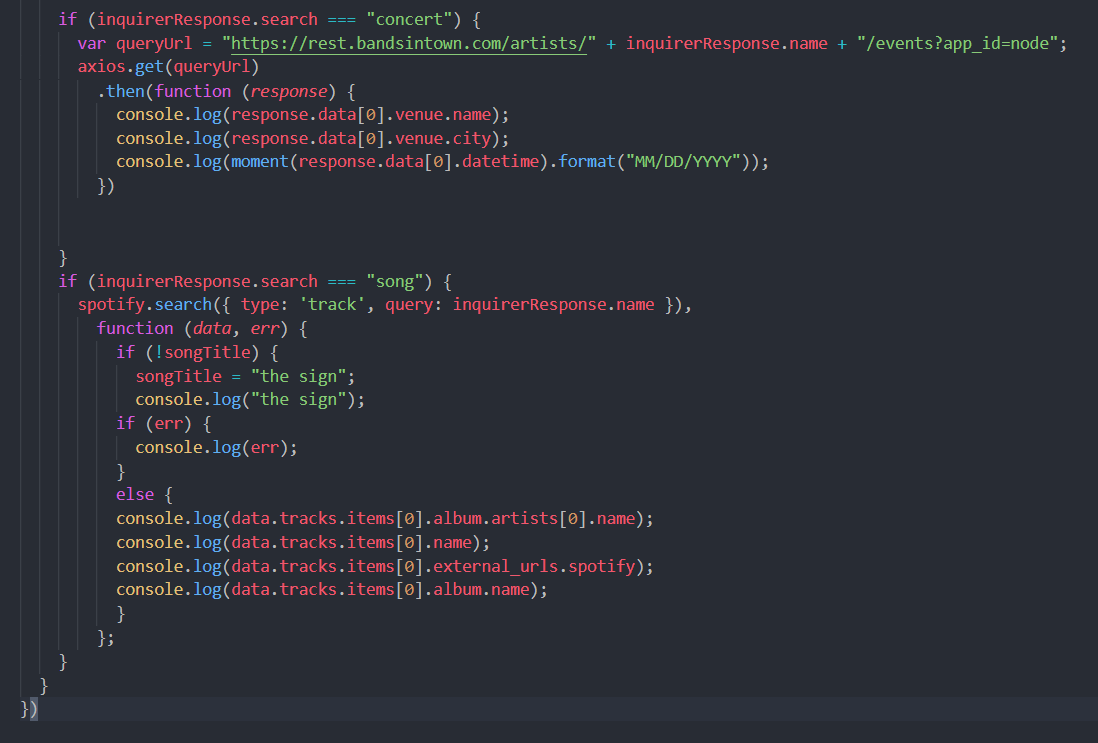
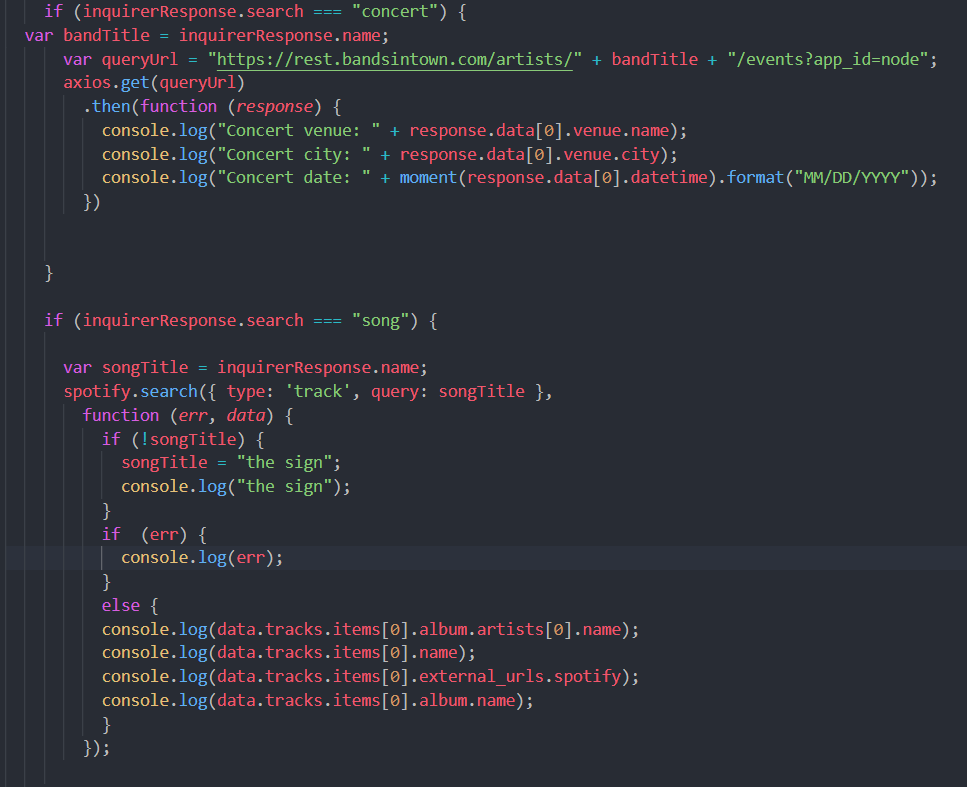
images

diff --git a/liri.js b/liri.js
@@ -27,7 +27,8 @@ inquirer
   ])
   .then(function (inquirerResponse) {
     if (inquirerResponse.search === "movie") {
-      var queryUrl = "http://www.omdbapi.com/?t=" + inquirerResponse.name + "&apikey=b3eb9e86";
+      var movieTitle = inquirerResponse.name;
+      var queryUrl = "http://www.omdbapi.com/?t=" + movieTitle + "&apikey=b3eb9e86";
       axios.get(queryUrl)
         .then(function (response) {
           console.log("\n\nThe movie's Title is: " + response.data.Title);
@@ -43,8 +44,8 @@ inquirer
 
     //.slice(3).join(" ")
     if (inquirerResponse.search === "concert") {
-      // var band = inquirerResponse.name.split(' ').join('');
-      var queryUrl = "https://rest.bandsintown.com/artists/" + inquirerResponse.name + "/events?app_id=node";
+  var bandTitle = inquirerResponse.name;
+      var queryUrl = "https://rest.bandsintown.com/artists/" + bandTitle + "/events?app_id=node";
       axios.get(queryUrl)
         .then(function (response) {
           console.log("Concert venue: " + response.data[0].venue.name);
@@ -54,29 +55,28 @@ inquirer
 
 
     }
+
     if (inquirerResponse.search === "song") {
+      
       var songTitle = inquirerResponse.name;
-      spotify.search({ type: 'track', query: songTitle }),
-        function songy(err, response, data) {
+      spotify.search({ type: 'track', query: songTitle },
+        function (err, data) {
           if (!songTitle) {
             songTitle = "the sign";
             console.log("the sign");
-
-          if (err) {
+          }
+          if  (err) {
             console.log(err);
           }
-         
           else {
-            console.log(response.data);
-          console.log(data.tracks.items[i].album.artists[i].name);
-          console.log(data.tracks.items[i].name);
-          console.log(data.tracks.items[i].external_urls.spotify);
-          console.log(data.tracks.items[i].album.name);
-
+          console.log("Artist: " + data.tracks.items[0].album.artists[0].name);
+          console.log("Song name: " + data.tracks.items[0].name);
+          console.log("Spotify link: " + data.tracks.items[0].external_urls.spotify);
+          console.log("Album nae: " + data.tracks.items[0].album.name);
           }
-        };
-        songy();
+        });
+  
     }
-   
-  }
+
+  
 })
